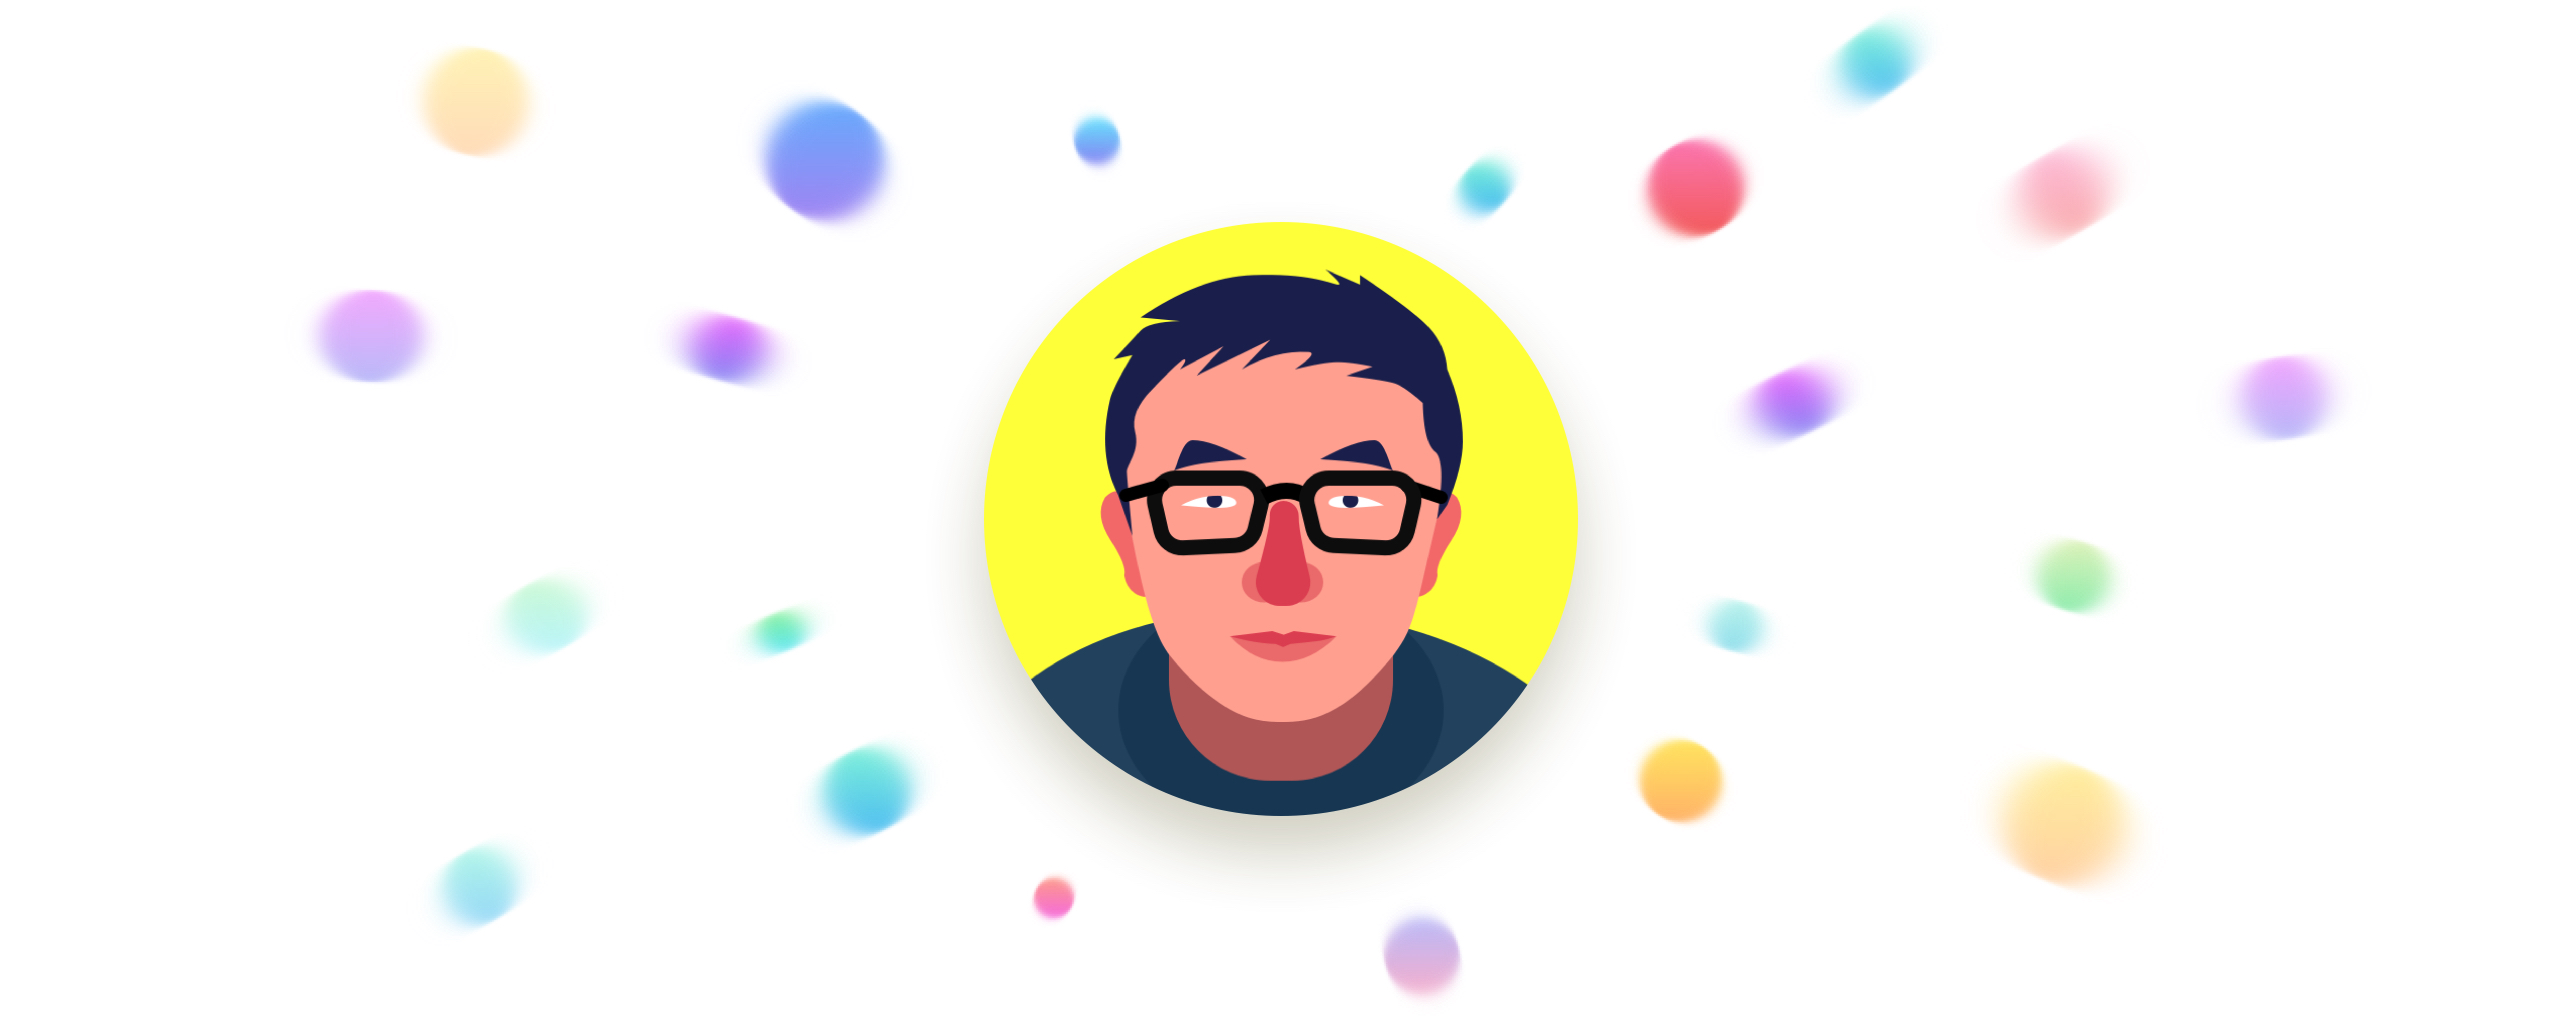
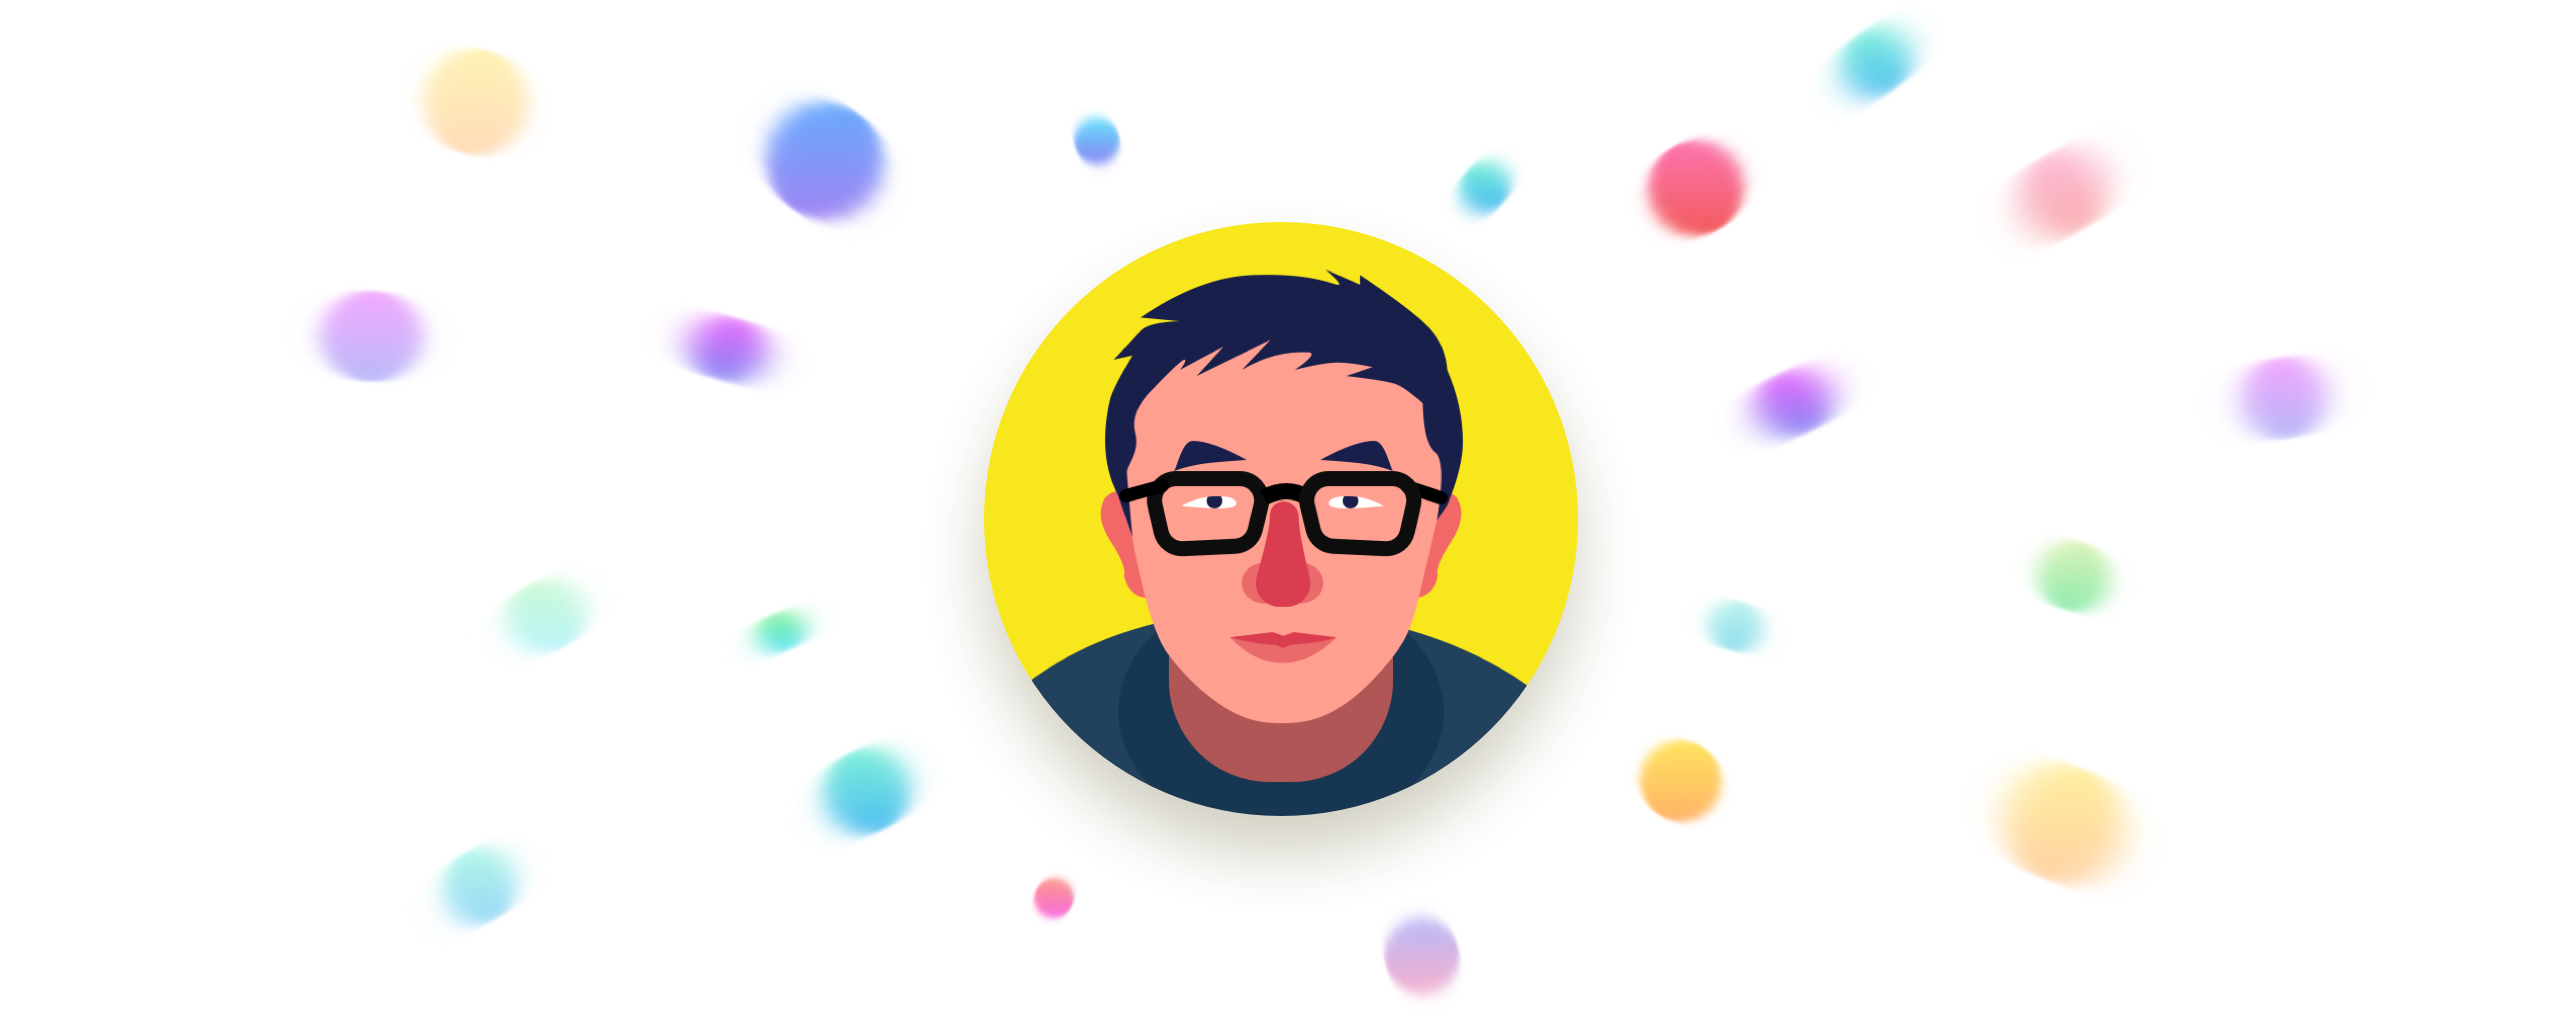
update theme

Changed region(s): [[0.375, 0.2136, 0.625, 0.6713]]

diff --git a/public/stylesheets/style.css b/public/stylesheets/style.css
@@ -30,7 +30,9 @@ html, body {
 
 #header {
     position: inherit;
-    min-height: 100%
+    min-height: 100%;
+    font-family: Mont;
+    font-weight: 200;
 }
 
 #jack-space {
@@ -56,8 +58,9 @@ html, body {
 
     padding-top: 0px;
     padding-left: 0px;
-    background-image: url('/images/top-bg.jpg');
-    background-repeat: no-repeat;
+    background-color: #F8E71C;
+ /*   background-image: url('/images/top-bg.jpg');*/
+   /* background-repeat: no-repeat;*/
     background-size: cover;
     z-index: 0;
 }
@@ -103,15 +106,16 @@ html, body {
 .slogan {
     padding-top: 140px;
     font-size: 66pt;
-    color: white;
+    color: black;
+    font-family: Mont;
+    font-weight: 300;
 }
 
 .slogan2 {
     padding-top: 10px;
     font-size: 18pt;
-    color: white;
-    font-weight: 100;
-!important;
+    color: black;
+    font-weight: 300; !important;
 }
 
 .line-01 {
@@ -149,7 +153,8 @@ html, body {
 
 .title {
     font-size: 42pt;
-    font-weight: 700;
+    font-family: Mont;
+    font-weight: 500;
     color: black;
     /*background-color: #F8E71C;*/
     /* position: absolute;*/
@@ -157,7 +162,9 @@ html, body {
 
 .title-01 {
     font-size: 42pt;
-    color: white;
+    color: black;
+    font-family: Mont;
+    font-weight: 500;
 }
 
 .rectangle-01 {
@@ -218,34 +225,41 @@ html, body {
 }
 
 .subtitle-about {
+    font-family: Mont;
+    font-weight: 400;
     text-align: center;
     font-size: x-large;
-    color: #000000;
+    color: black;
 }
 
 .text-01 {
     text-align: center;
     font-size: medium;
-    color: #515151;
+    color: black;
     line-height: 180%;
+    font-family: Mont;
+    font-weight: 400;
 }
 
 .text-02 {
     font-size: medium;
-    color: #515151;
-    font-weight: 100;
+    color: black;
+    font-weight: 400;
+    font-family: Mont;
 }
 
 .text-03 {
     font-size: large;
-    color: #FFFFFF;
-    font-weight: 100;
+    color: black;
+    font-family: Mont;
+    font-weight: 400;
 }
 
 .text-04 {
     font-size: small;
-    color: #FFFFFF;
-    font-weight: 100;
+    font-family: Mont;
+    color: black;
+    font-weight: 400;
 }
 
 .jk-skill {
@@ -293,7 +307,7 @@ html, body {
 }
 
 #jack-footer {
-    background-color: #5E17EB;
+    background-color: #F8E71C;
     width: auto;
     height: 220px;
     position: static;
@@ -306,8 +320,8 @@ html, body {
     display: inline-block;
     width: 20px;
     height: 20px;
-    border-top: 3px solid #F8E71C;
-    border-right: 3px solid #F8E71C;
+    border-top: 3px solid black;
+    border-right: 3px solid black;
 }
 
 .u-arrow:hover {
@@ -326,8 +340,9 @@ html, body {
 
 .navbar {
     width: 100%;
+    font-family: Montserrat;
     border: none;
-    font-weight: 100 !important;
+    font-weight: 500 !important;
     font-style: normal !important;
 }
 
@@ -341,13 +356,17 @@ html, body {
 }
 
 .nav-link {
-    color: white;
-    font-weight: 100;
+    font-size:16px;
+    font-family: Mont;
+    color: black;
+    font-weight: 500;
 }
 
 .nav-link:hover {
-    font-weight: 100;
-    color: #F8E71C;
+
+    font-family: Mont;
+    font-weight: 500;
+    color: white;
 }
 
 .nav-item {
@@ -379,7 +398,7 @@ html, body {
 }
 
 .header.navbar-fixed-top .fixed-top {
-    background: #5E17EB !important;
+    background: #F8E71C !important;
     color: #000 !important;
     height: 98px;
     line-height: 98px;
@@ -415,6 +434,7 @@ html, body {
 
 .header .logo a:hover {
     text-decoration: none;
+
 }
 
 .header .main-nav button {
